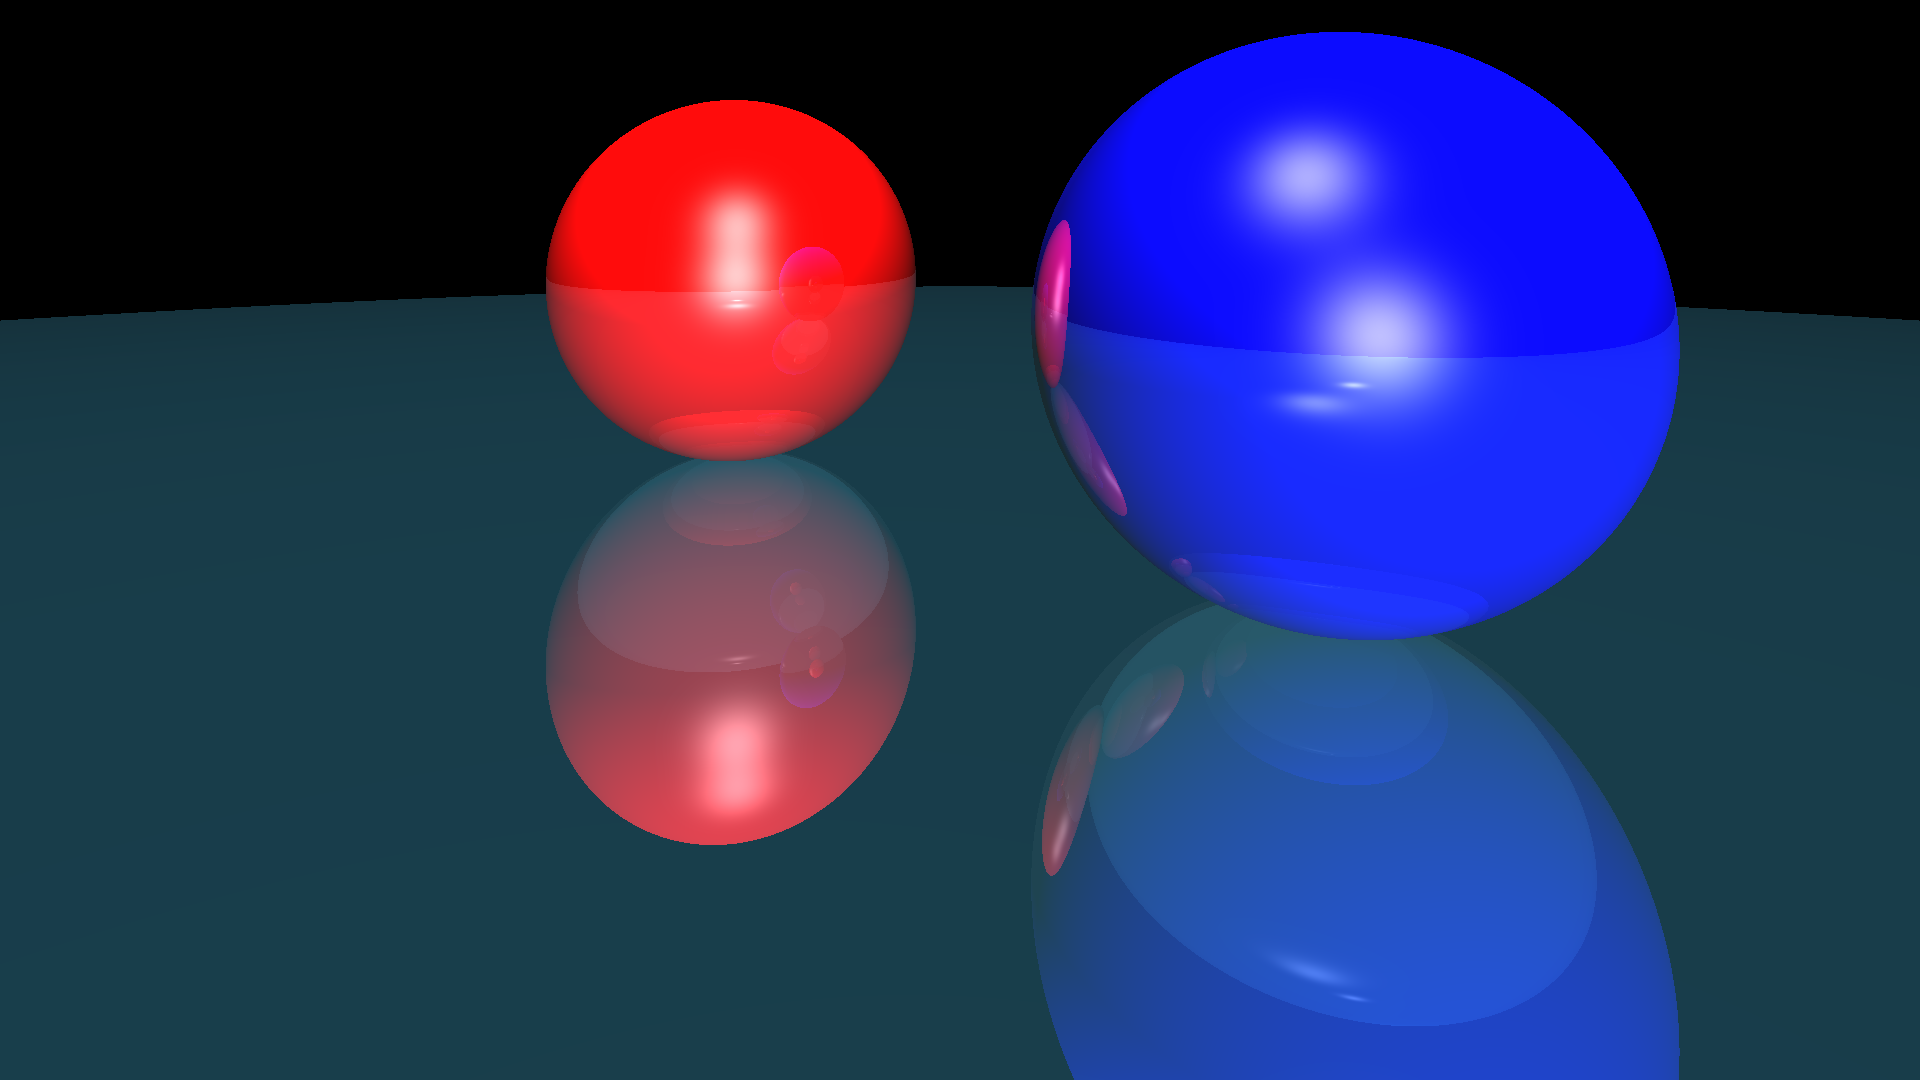
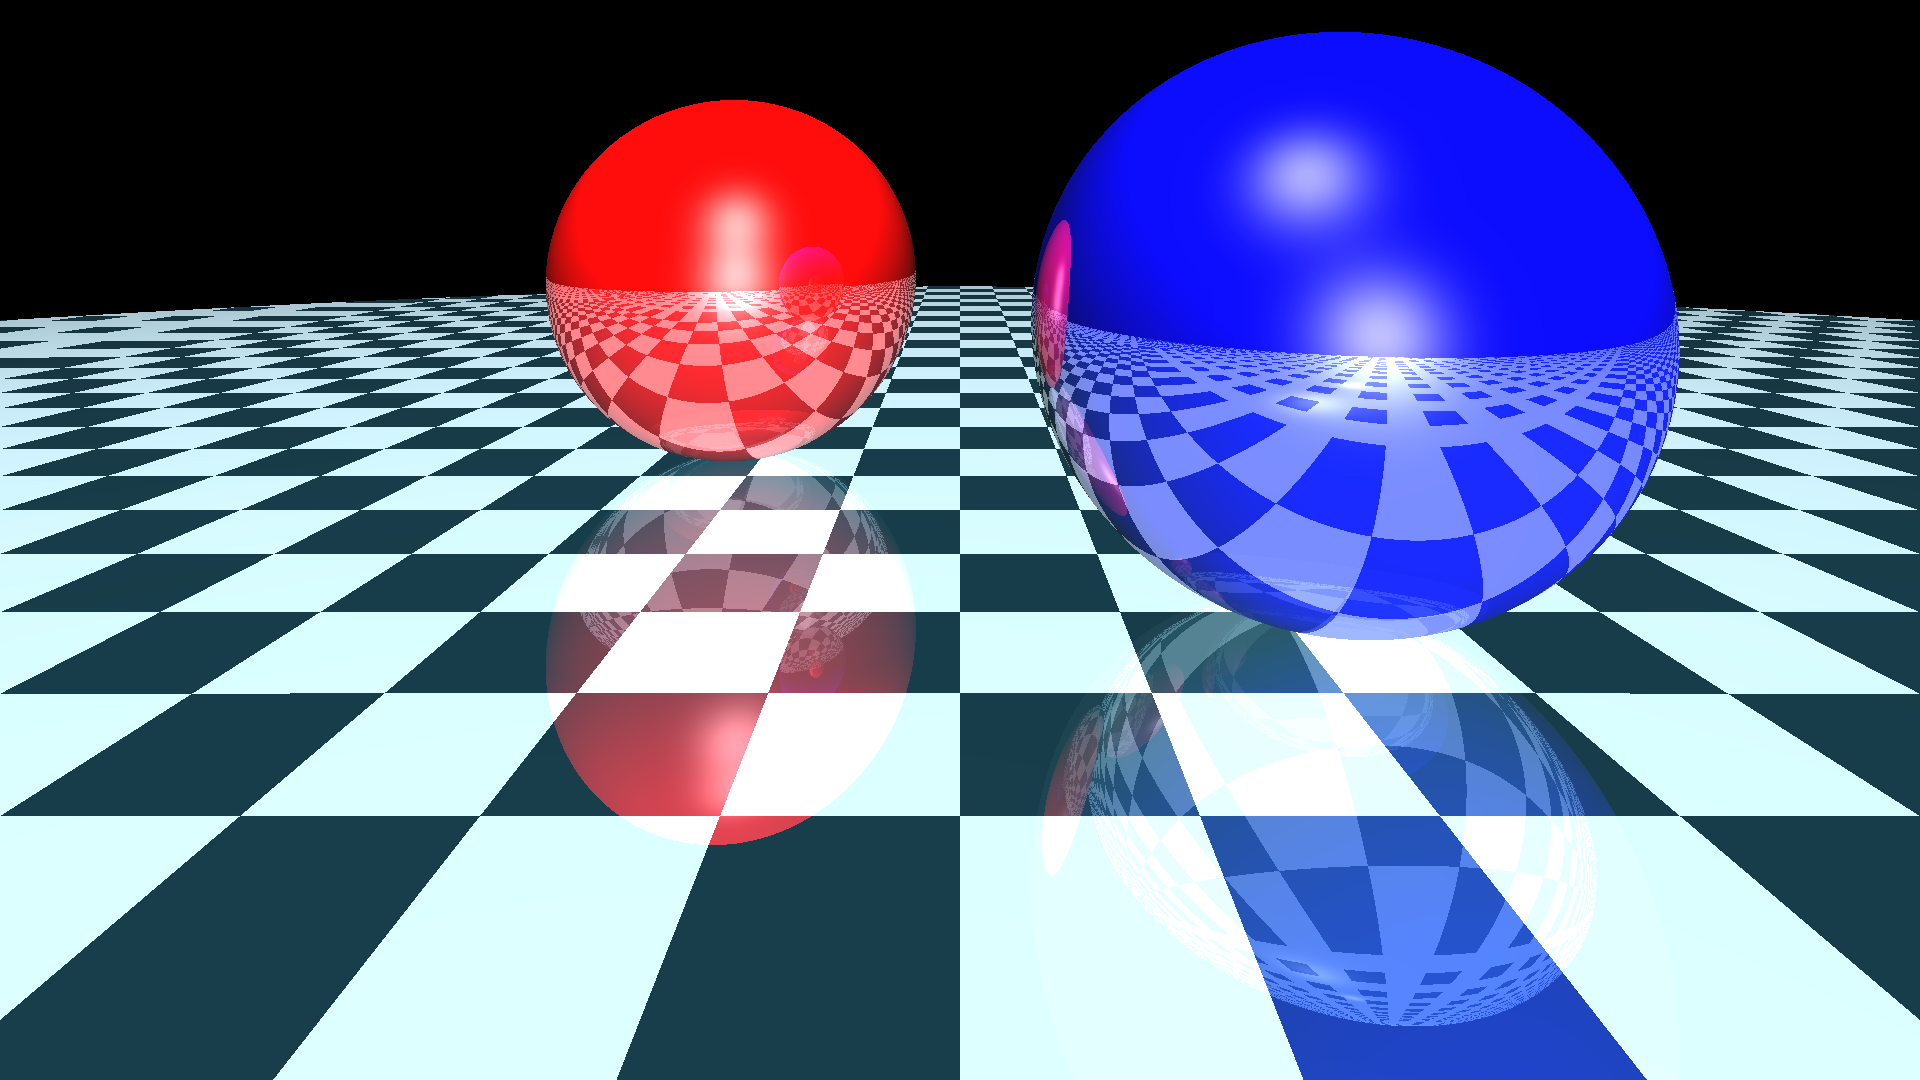
Fix checker rendering

diff --git a/rust-tracer/src/material.rs b/rust-tracer/src/material.rs
@@ -1,33 +1,46 @@
 use serde::{Serialize, Deserialize};
 use crate::{Color, Point};
 
+#[derive(Debug, Clone, Serialize, Deserialize, PartialEq)]
+pub enum MaterialType {
+    Simple,
+    Checker,
+}
+
 #[derive(Debug, Clone, Serialize, Deserialize)]
 pub struct Material {
-    pub color: Color,
+    pub color1: Color,
+    pub color2: Color,
+    material_type: MaterialType,
     pub ambient: f64,
     pub diffuse: f64,
     pub specular: f64,
     pub reflection: f64,
 }
 
+
 impl Material {
-    pub fn new(
-        color: Color,
-        ambient: f64,
-        diffuse: f64,
-        specular: f64,
-        reflection: f64,
-    ) -> Self {
+
+    pub fn new(color1: Color, color2: Color, material_type: MaterialType, ambient: f64, diffuse: f64, specular: f64, reflection: f64) -> Self {
         Material {
-            color,
+            color1,
+            color2,
+            material_type,
             ambient,
             diffuse,
             specular,
             reflection,
         }
     }
-
+    
     pub fn color_at(&self, position: Point) -> Color {
-        self.color
+        if self.material_type == MaterialType::Checker {           
+            if (((position.x + 5.0) * 3.0) as i32 % 2) == ((position.z * 3.0) as i32 % 2) {
+                return self.color1
+            } else {
+                return self.color2
+            }
+        }
+        return self.color1
     }
 } 

diff --git a/rust-tracer/src/scene_parser.rs b/rust-tracer/src/scene_parser.rs
@@ -1,6 +1,6 @@
 use serde::Deserialize;
 use std::fs;
-use crate::{Color, Material, CheckerMaterial, Point, Scene, Sphere, Light, Vector3};
+use crate::{Color, Material, material::MaterialType, Point, Scene, Sphere, Light, Vector3};
 
 #[derive(Debug, Deserialize)]
 struct SceneData {
@@ -84,6 +84,8 @@ fn parse_material(data: &MaterialData) -> Result<Material, Box<dyn std::error::E
             let color = parse_color(data.color.as_ref().ok_or("Color is required for solid material")?)?;
             Ok(Material::new(
                 color,
+                color,
+                MaterialType::Simple,
                 data.ambient,
                 data.diffuse,
                 data.specular,
@@ -95,6 +97,8 @@ fn parse_material(data: &MaterialData) -> Result<Material, Box<dyn std::error::E
             let color2 = parse_color(data.color2.as_ref().ok_or("color2 is required for checker material")?)?;
             Ok(Material::new(
                 color1, // We'll need to modify the Material struct to handle checker pattern
+                color2,
+                MaterialType::Checker,
                 data.ambient,
                 data.diffuse,
                 data.specular,

diff --git a/rust-tracer/src/main.rs b/rust-tracer/src/main.rs
@@ -1,7 +1,6 @@
 mod color;
 mod ray;
 mod material;
-mod checker_material;
 mod sphere;
 mod light;
 mod scene;
@@ -16,7 +15,6 @@ use std::path::Path;
 pub use color::Color;
 pub use ray::Ray;
 pub use material::Material;
-pub use checker_material::CheckerMaterial;
 pub use sphere::Sphere;
 pub use light::Light;
 pub use scene::Scene;

diff --git a/Readme.md b/Readme.md
@@ -28,3 +28,22 @@ cargo test
 ```
 cargo run -- examples/scene1.yaml
 ```
+
+
+# Benchamrk
+
+### Python
+
+> python .\src\main.py examples/scene4.yaml
+```
+Function=render, Time=61.89826536178589
+```
+
+### Rust
+
+> cargo run .\examples\scene4.yaml
+```
+Rendering: 99.9%
+Rendering completed in 1.55s
+Image saved to renders/s4-two-ball.png
+```
